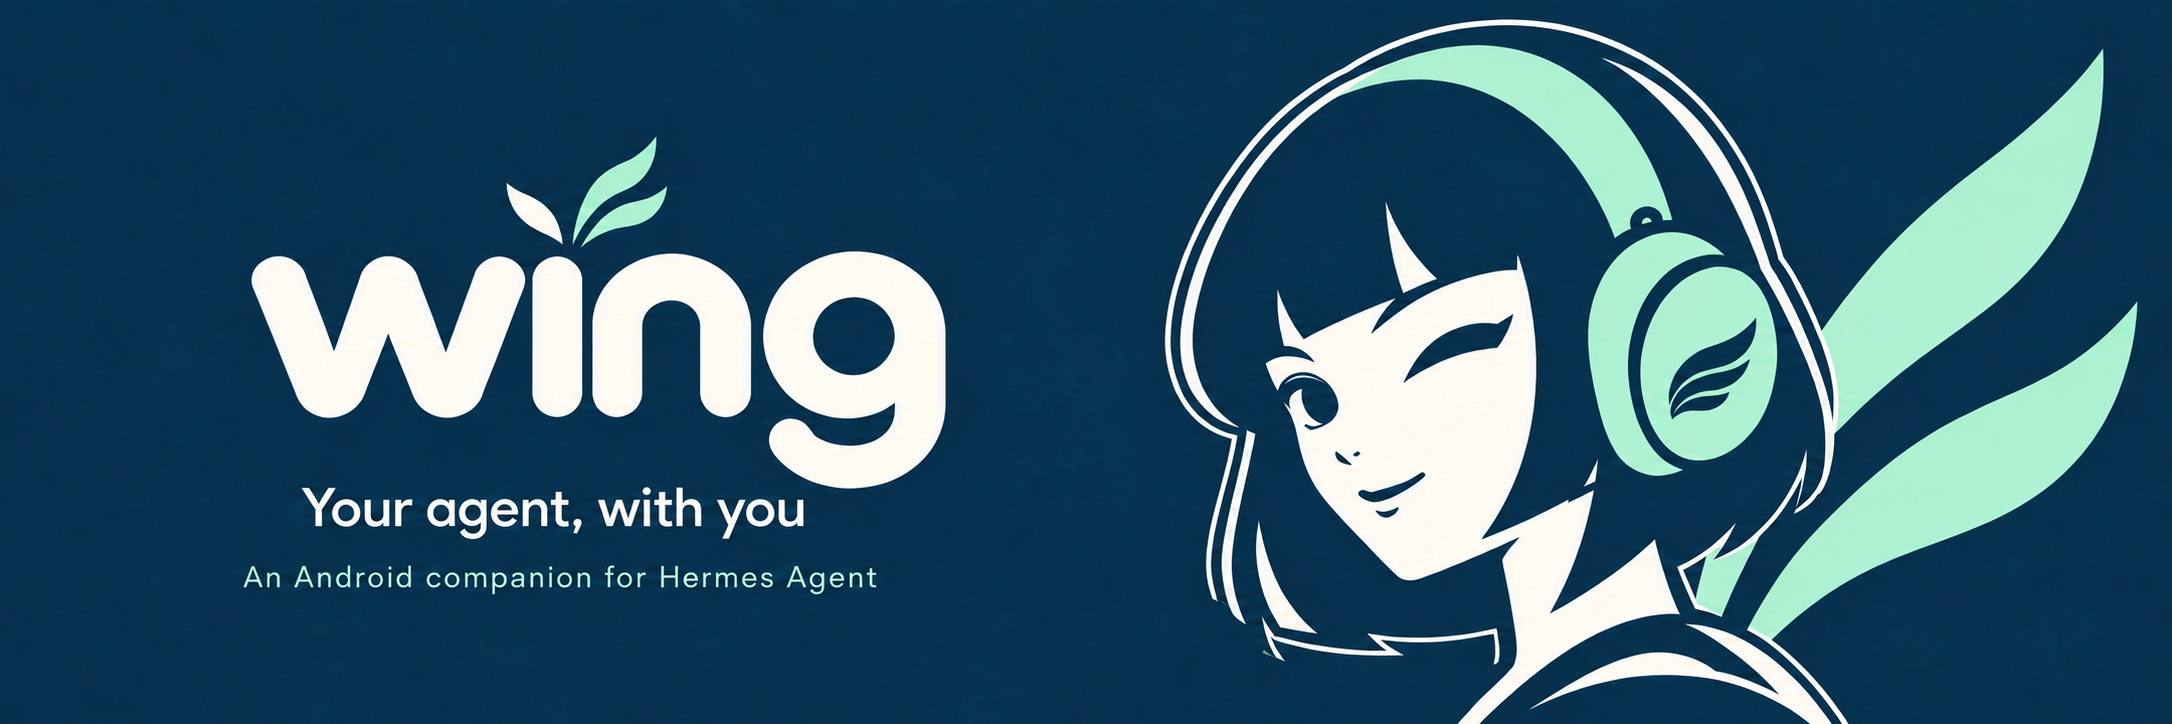
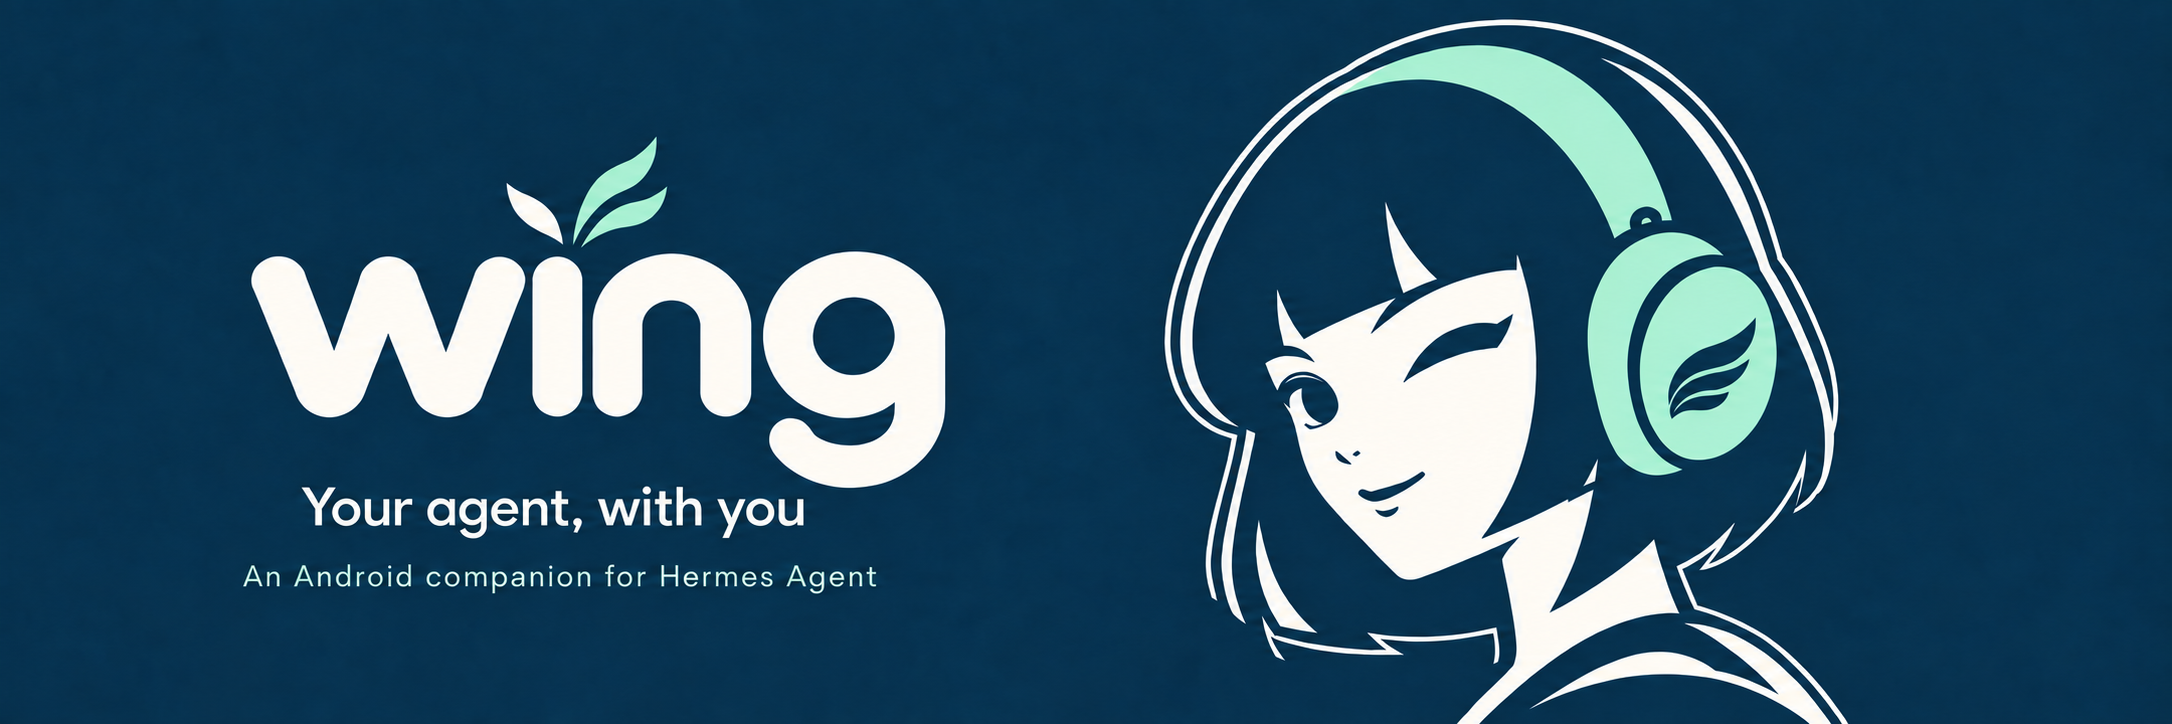
Simplify Wing hero around the portrait
Remove the two oversized background feathers while retaining the wordmark accents and earcup emblem. Record the final composition direction.

Reviewed historical CI failure 34876464469: an outdated New chat text assertion, already corrected on main. Current CI 34985611504 passed, and all 12 home_config_restore tests pass locally.

diff --git a/docs/design/2026-09-15-wing-readme-hero-prompt.md b/docs/design/2026-09-15-wing-readme-hero-prompt.md
@@ -1,5 +1,10 @@
 # Wing README hero
 
+Final composition edit: remove the two oversized mint feathers behind the
+portrait and fill that area with plain navy. Keep the small feathers above the
+i and the earcup wing. This supersedes the optional background decoration in
+the original prompt below.
+
 Final punctuation edit: remove the terminal period after “Your agent, with you”.
 Preserve the comma and all other lettering and artwork. This supersedes the
 tagline punctuation in the original prompt below.
